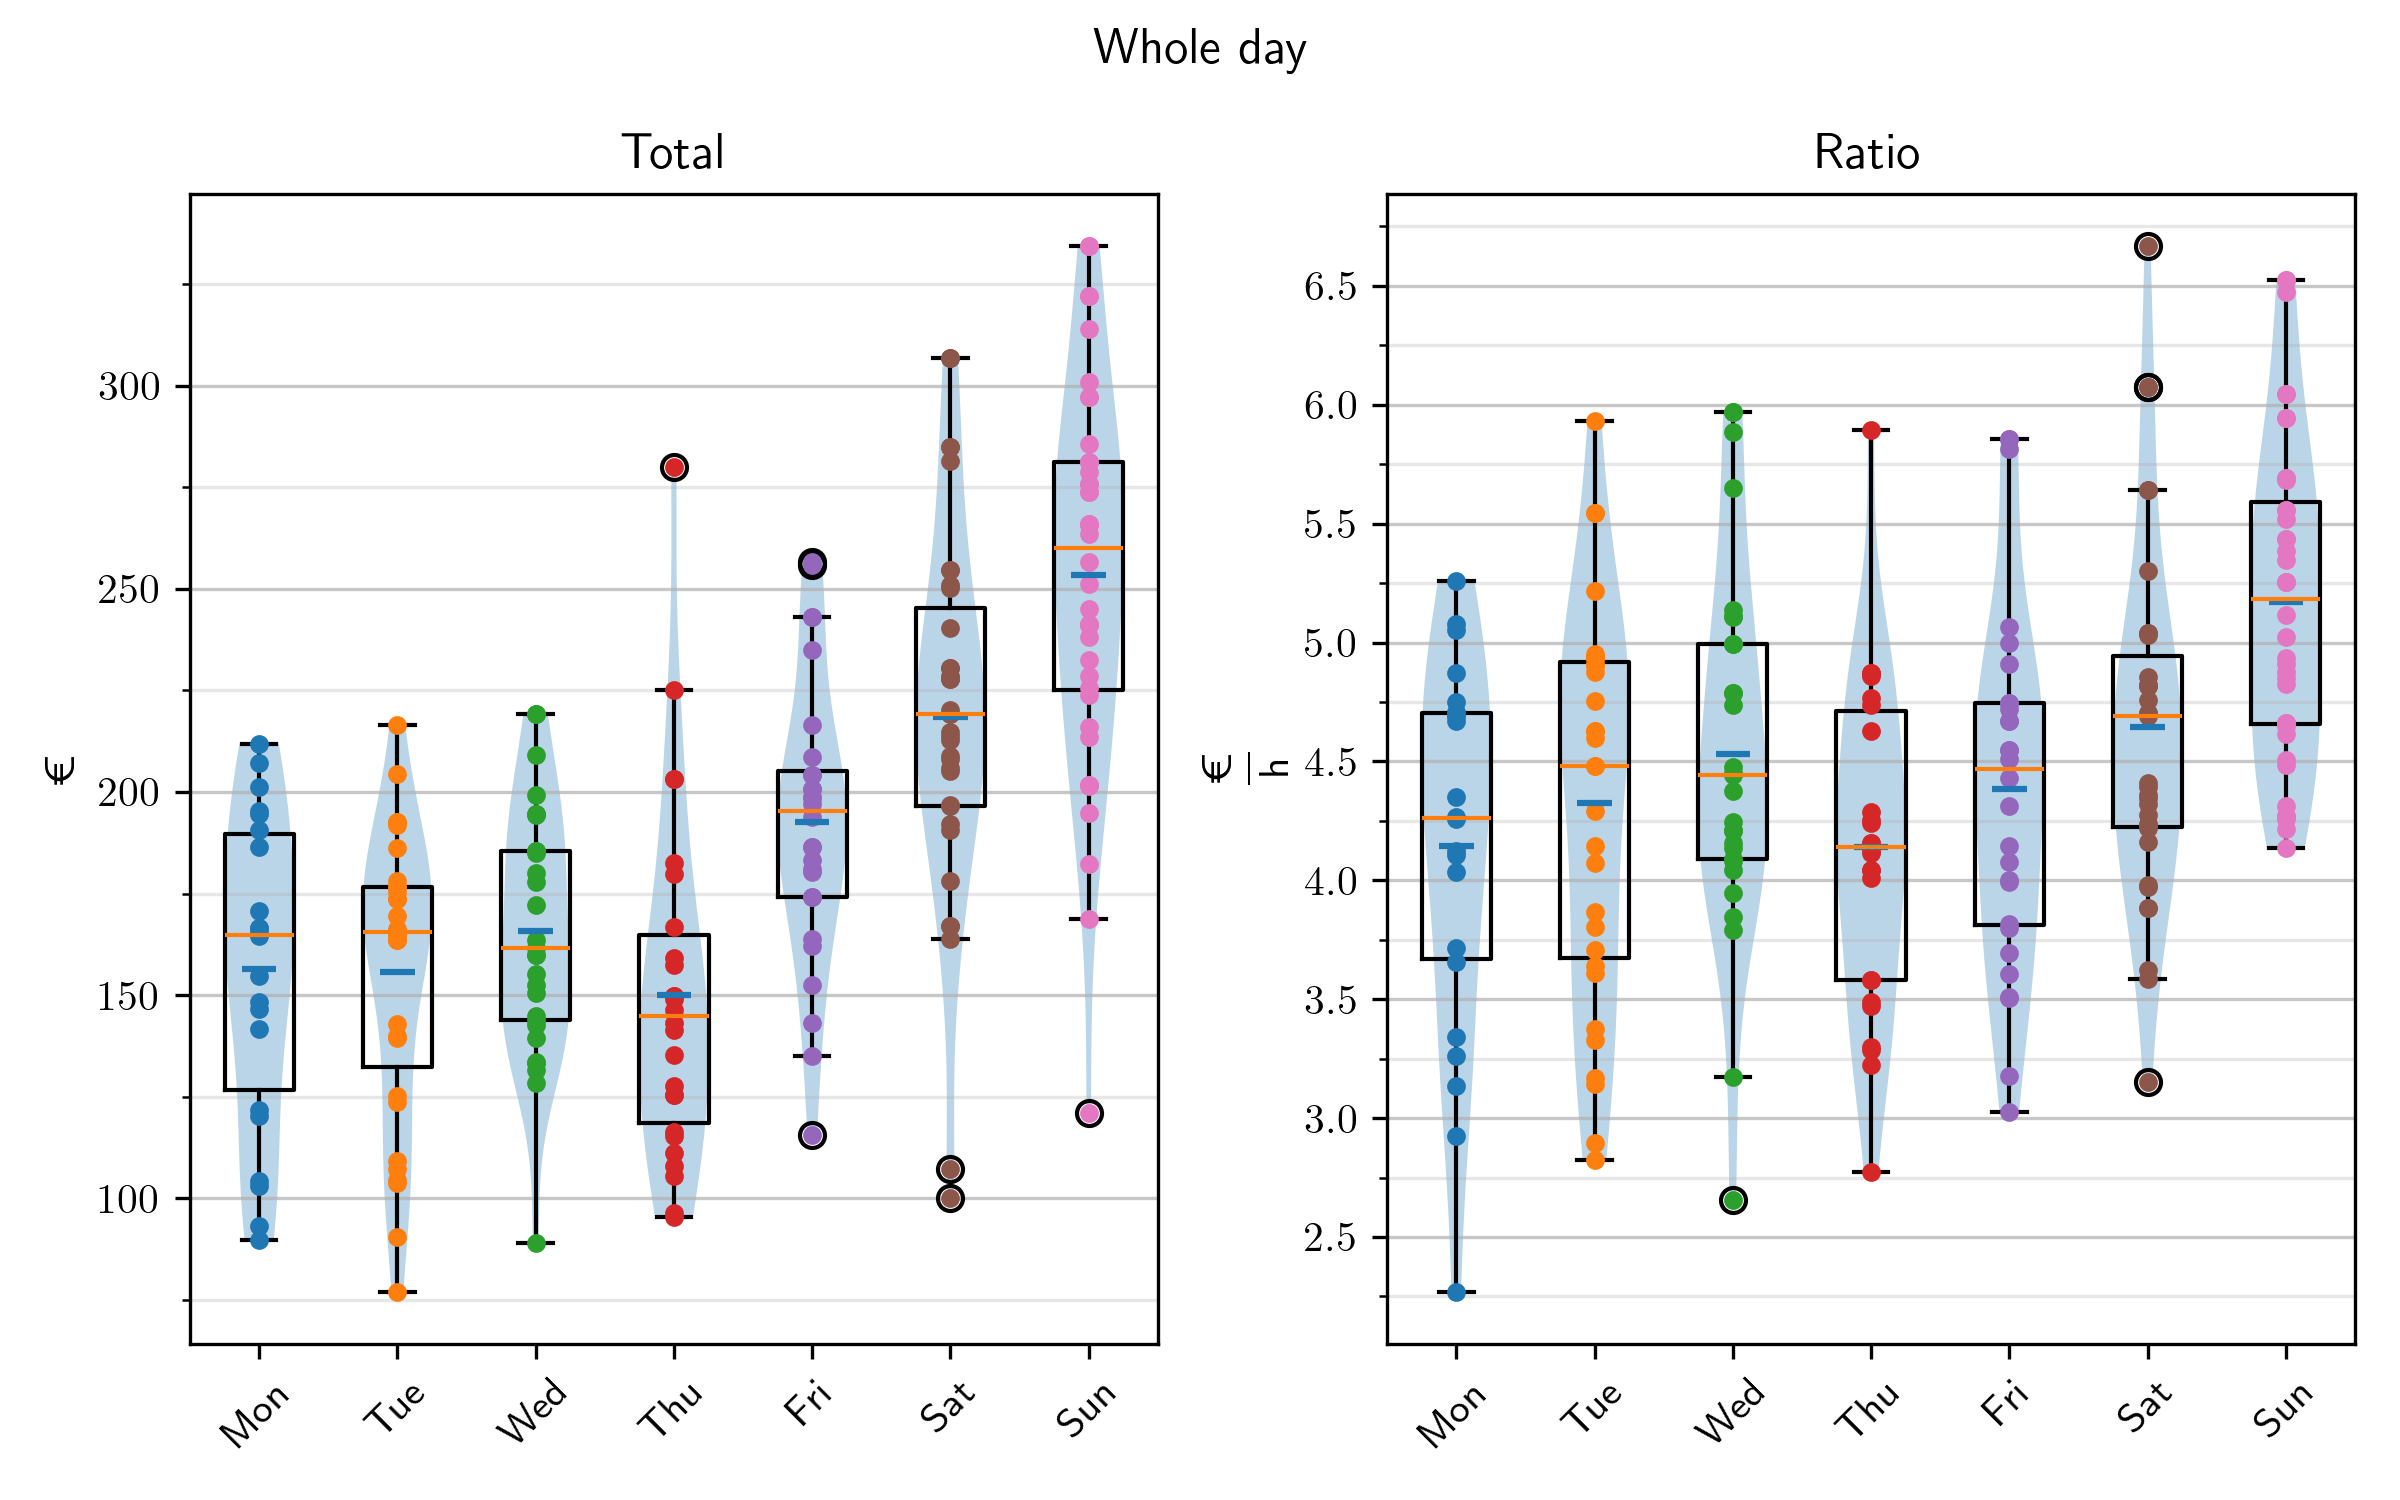
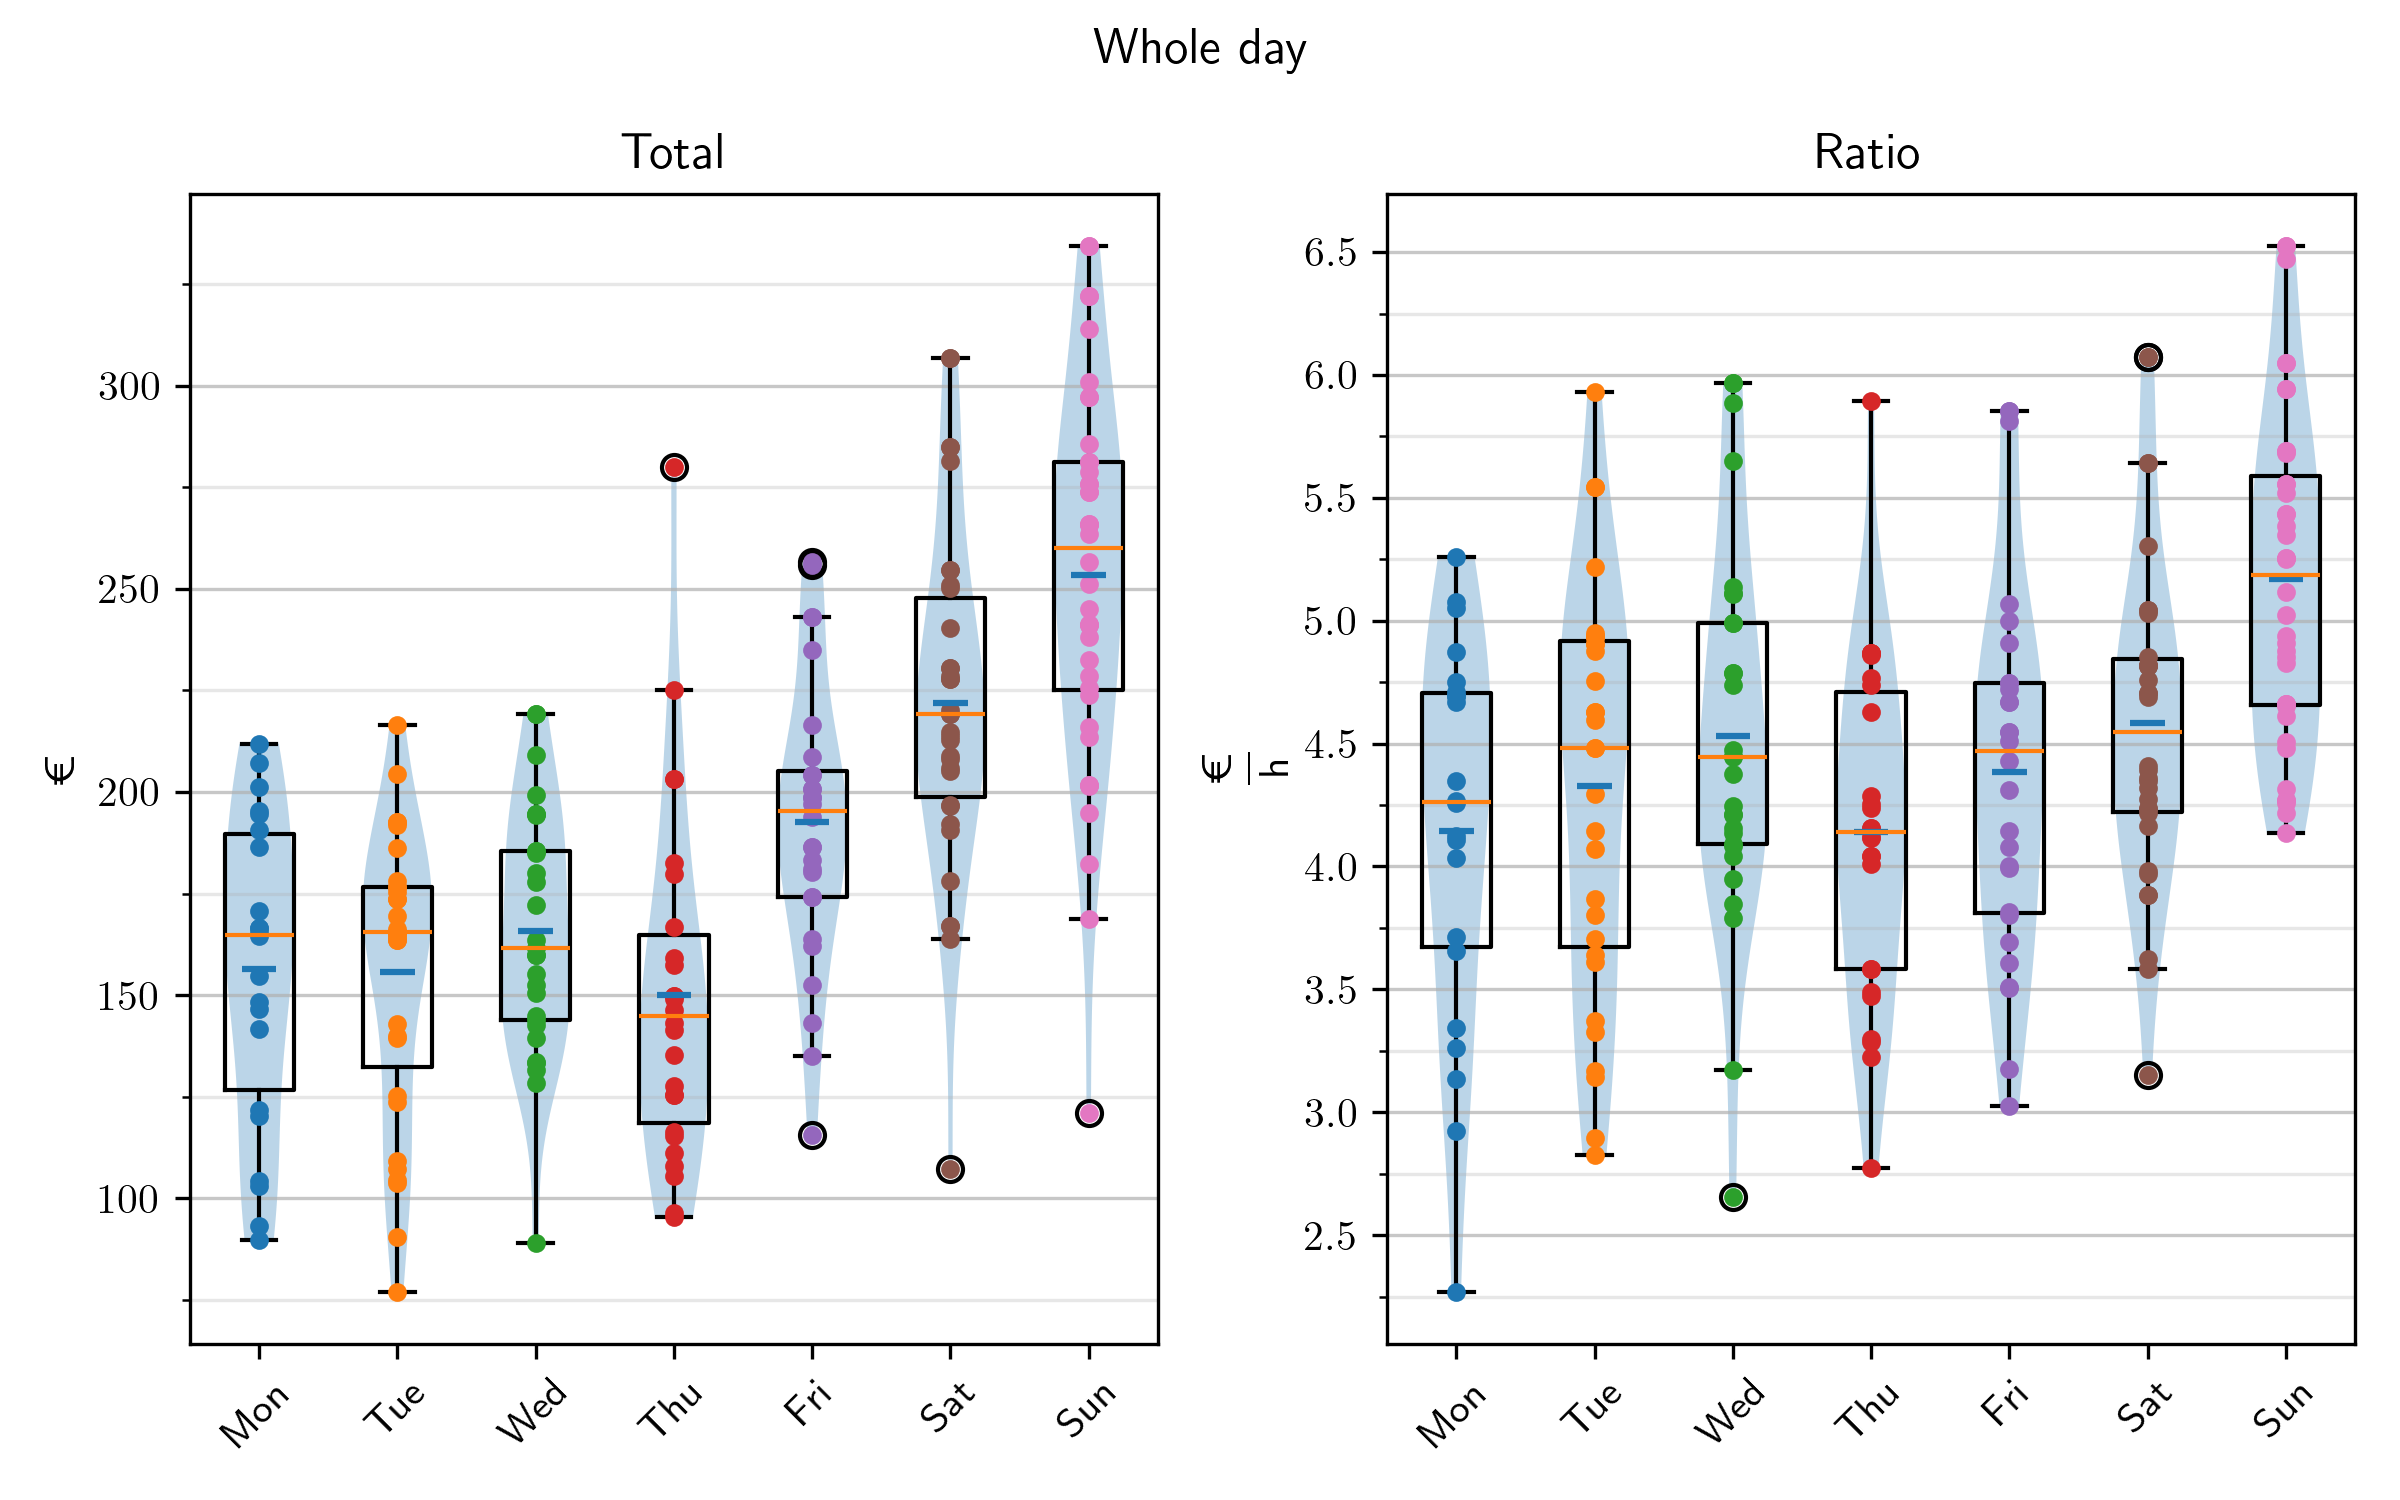
update data

diff --git a/statistic.py b/statistic.py
@@ -227,7 +227,7 @@ def statistic():
                                       textprops=dict(color="black"))
     
     for i, a in enumerate(autotexts):
-        a.set_text("{:.1f}%\n{}".format(pct[i], int(weekday[i])))
+        a.set_text("{:.1f}a%\n{}".format(pct[i], int(weekday[i])))
     
     ax.set_title("Frequency")
     

diff --git a/README.md b/README.md
@@ -1,11 +1,11 @@
-last update: 21.09.2024, Saturday, time: 11:37  
+last update: 21.09.2024, Saturday, time: 11:58  
 # Overview  
 || whole | half |  
 |---|---|---|  
-|total $/ \textup{€}$|184.092 $\pm$ 52.838|109.118 $\pm$ 31.413|  
-|ratio $/ \frac{\textup{€}}{\textup{h}}$| 4.429 $\pm$  0.790| 5.136 $\pm$  1.119|  
-|cash $/ \textup{€}$|63.183 $\pm$ 37.845|44.469 $\pm$ 20.527|  
-|card $/ \textup{€}$|87.963 $\pm$ 54.440|57.202 $\pm$ 27.775|  
+|total $/ \textup{€}$|184.570 $\pm$ 52.605|109.118 $\pm$ 31.413|  
+|ratio $/ \frac{\textup{€}}{\textup{h}}$| 4.416 $\pm$  0.774| 5.136 $\pm$  1.119|  
+|cash $/ \textup{€}$|63.542 $\pm$ 37.651|44.469 $\pm$ 20.527|  
+|card $/ \textup{€}$|88.463 $\pm$ 54.188|57.202 $\pm$ 27.775|  
 # Frequency  
     
 ![Image](./png/frequency.png)  
@@ -20,9 +20,9 @@ last update: 21.09.2024, Saturday, time: 11:37
   
 ||ratio $/ \frac{\textup{€}}{\textup{h}}$|total $/ \textup{€}$|timestamp|holiday|  
 |---|---|---|---|---|  
-|1"|  6.67|100.00|21.09.2024 Sat AM|False|  
-|2"|  6.52|334.35|22.10.2023 Sun PM|False|  
-|3"|  6.52|334.35|22.10.2023 Sun False|False|  
+|1"|  6.52|334.35|22.10.2023 Sun PM|False|  
+|2"|  6.52|334.35|22.10.2023 Sun False|False|  
+|3"|  6.47|301.01|28.04.2024 Sun False|False|  
   
   
     
@@ -57,8 +57,8 @@ last update: 21.09.2024, Saturday, time: 11:37
 ||ratio $/ \frac{\textup{€}}{\textup{h}}$|  4.14 $\pm$  0.68|  4.76 $\pm$  0.98|  
 |Friday|total $/ \textup{€}$|192.67 $\pm$ 34.05|104.48 $\pm$ 25.23|  
 ||ratio $/ \frac{\textup{€}}{\textup{h}}$|  4.38 $\pm$  0.74|  4.96 $\pm$  1.14|  
-|Saturday|total $/ \textup{€}$|218.51 $\pm$ 45.82|116.06 $\pm$ 31.65|  
-||ratio $/ \frac{\textup{€}}{\textup{h}}$|  4.64 $\pm$  0.74|  4.94 $\pm$  1.08|  
+|Saturday|total $/ \textup{€}$|222.00 $\pm$ 41.67|116.06 $\pm$ 31.65|  
+||ratio $/ \frac{\textup{€}}{\textup{h}}$|  4.58 $\pm$  0.66|  4.94 $\pm$  1.08|  
 |Sunday|total $/ \textup{€}$|253.40 $\pm$ 46.26|138.03 $\pm$ 28.18|  
 ||ratio $/ \frac{\textup{€}}{\textup{h}}$|  5.17 $\pm$  0.66|  5.49 $\pm$  1.09|  
 # Make me feel Special  
@@ -66,12 +66,12 @@ Special: Holidays and Weekends
 ## Whole day  
 ||total $/ \textup{€}$|ratio $/ \frac{\textup{€}}{\textup{h}}$|count|  
 |---|---|---|---|  
-|All|190.30 $\pm$ 55.09|  4.53 $\pm$  0.81|211  
+|All|190.73 $\pm$ 54.87|  4.52 $\pm$  0.80|210  
 |Normal|164.48 $\pm$ 38.69|  4.32 $\pm$  0.77|136  
-|Weekend|237.12 $\pm$ 49.23|  4.92 $\pm$  0.74|75  
+|Weekend|238.97 $\pm$ 46.90|  4.90 $\pm$  0.72|74  
 |Holiday|182.64 $\pm$ 54.61|  4.45 $\pm$  0.83|61  
-|Special|209.93 $\pm$ 59.79|  4.69 $\pm$  0.83|117  
-|Special\&Friday|207.61 $\pm$ 56.50|  4.65 $\pm$  0.82|139  
+|Special|210.87 $\pm$ 59.16|  4.67 $\pm$  0.81|116  
+|Special\&Friday|208.39 $\pm$ 55.95|  4.64 $\pm$  0.80|138  
     
 ![Image](./png/special_whole.png)  
 ## Half day  
